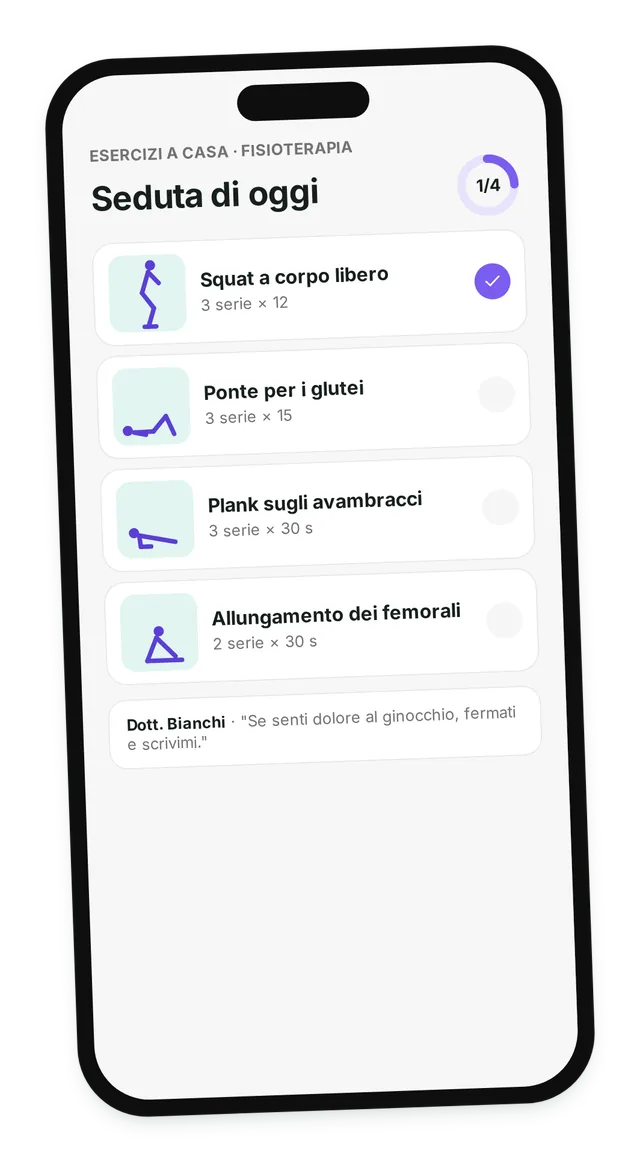
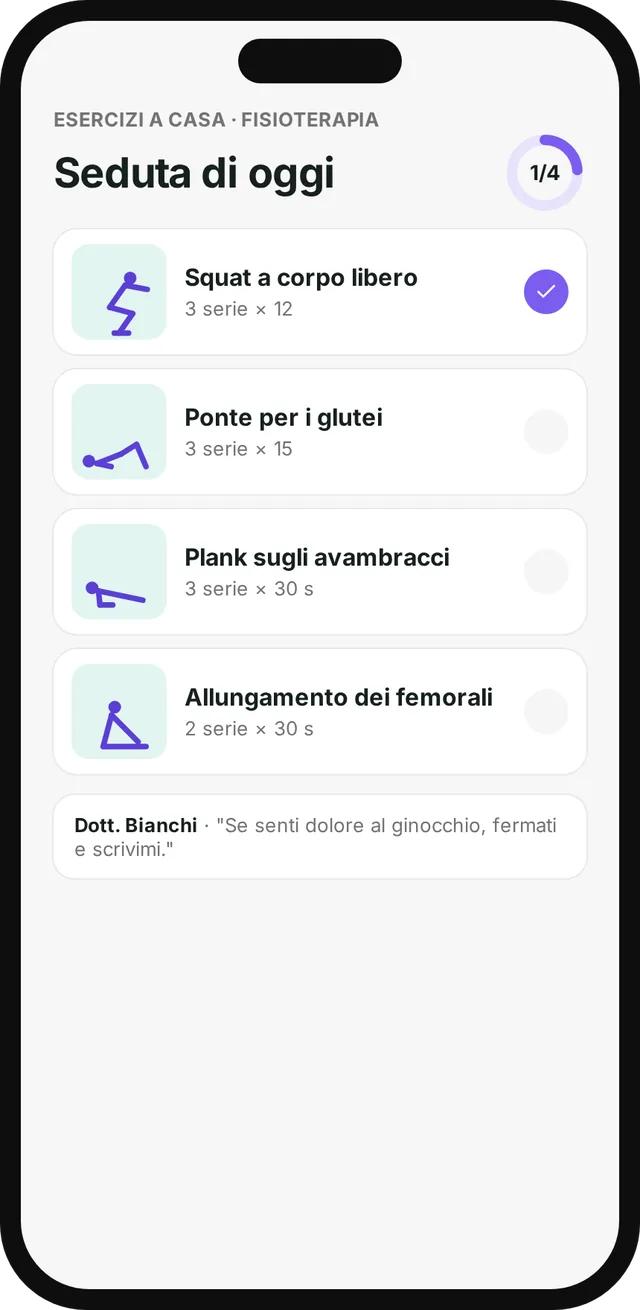
feat: i telefoni del sito dritti e interi
Le schermate dei telefoni vengono dal video senza la rotazione e senza lo
sfondo (brand/video/sorgenti/telefoni.mjs), così sul sito non sembrano
schiacciate.

Claude-Session: https://claude.ai/code/session_019omCPMHgUWhFNUA2V3e92d

Changed region(s): [[0.0, 0.0, 1.0, 1.0]]

diff --git a/sito/immagini.py b/sito/immagini.py
@@ -41,15 +41,11 @@ LARGHEZZE = {
 	"gdpr": 900,
 	"muscoli": 700,
 	"spesa": 700,
-	# phones
-	"home": 640,
-	"login": 640,
-	"firma": 640,
-	"dieta": 640,
-	"esercizio": 640,
-	"esercizi": 640,
-	"staff": 640,
 }
+
+
+# the phones, upright (brand/video/sorgenti/telefoni.mjs makes telefono-<name>.png)
+TELEFONI = {nome: 640 for nome in ("login", "home", "firma", "dieta", "esercizio", "esercizi", "staff")}
 
 
 def webp(sorgente: Path, destinazione: Path, larghezza: int) -> None:
@@ -80,6 +76,8 @@ def main() -> None:
 	USCITA.mkdir(parents=True, exist_ok=True)
 	for nome, larghezza in LARGHEZZE.items():
 		webp(SCHERMATE / f"{nome}.png", USCITA / f"{nome}.webp", larghezza)
+	for nome, larghezza in TELEFONI.items():
+		webp(SCHERMATE / f"telefono-{nome}.png", USCITA / f"{nome}.webp", larghezza)
 	condivisione()
 	for file in sorted(USCITA.iterdir()):
 		print(f"{file.name:28} {file.stat().st_size // 1024:5} KB")
